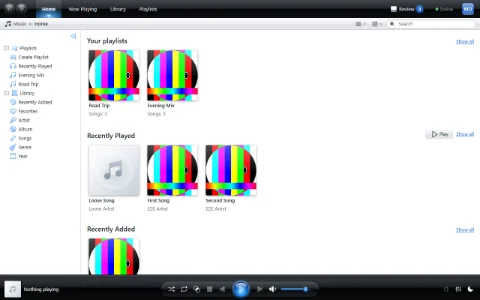
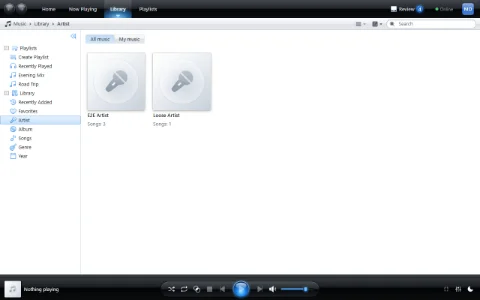
WMP-32: M5 take the theme baselines and show the artist overview in the previews
The baselines of the screenshot regression (8 theme variants, 10 views each, desktop and phone) are taken with npm run test:themes:update in the Playwright image pinned in the CI, against the rebuilt development container. The preview pictures of the theme picker now show the artist overview instead of the home page, so each tile shows the chrome and the cover placeholders of its theme rather than the colorful test covers; all previews are taken again. THEMING.md documents the base fixes of this issue and how indicators avoid painting without an active entry and sliding in on the first measurement, and the README describes the theme choice in the settings.

Closes #19

Claude-Session: https://claude.ai/code/session_011yGJ1FB9W4kXx3AgqJXLmc

diff --git a/tests/WaveMP.E2E/screenshots/theme.screenshots.ts b/tests/WaveMP.E2E/screenshots/theme.screenshots.ts
@@ -39,7 +39,10 @@ function list(value: string | undefined): string[] {
         .filter(Boolean)
 }
 
-/** The preview picture of the theme picker: the home page, scaled down, as WebP. */
+/**
+ * The preview picture of the theme picker: the artist overview, scaled down, as WebP. It shows the
+ * chrome of the theme and its own cover placeholders instead of the colorful test covers.
+ */
 async function writePreview(page: Page, target: ThemeTarget, png: Buffer): Promise<void> {
     const webp = await page.evaluate(async (data) => {
         const image = new Image()
@@ -78,7 +81,7 @@ for (const target of targets) {
                 if (tasks.has('screenshots')) {
                     writeFileSync(path.join(directory, `${view.name}.png`), png)
                 }
-                if (tasks.has('preview') && view.name === 'home') {
+                if (tasks.has('preview') && view.name === 'artists') {
                     await writePreview(page, target, png)
                 }
                 if (tasks.has('contrast')) {

diff --git a/README.md b/README.md
@@ -429,27 +429,28 @@ A number at the start of a file name is only a track number inside an album fold
 2. **Create profiles.** As admin, open the profile menu (your initials at the top right), choose **Administration** and then **Profiles** to add, edit or delete profiles: name, initials (created from the name if left empty), color and role (admin or user). The built-in admin profile can be renamed, but it cannot be deleted and always stays an admin. Once there are other profiles, it is shown less prominently in the selection.
 3. **Switch profiles** with **Switch profile** in the profile menu.
 4. **Choose your language** under **Settings** in the profile menu. It is stored with the profile and applies on all devices; the list offers every language WaveMP has a translation for, each in its own language. Before a profile is selected, WaveMP uses the language of the browser if it has a translation for it (also for regional variants: German for `de-AT`), otherwise English.
-5. **Choose a picture.** Under **Settings > Profile picture**, **Change picture** gives your profile one of the built-in pictures or an own JPEG, PNG or WebP picture of up to 10 MB: drag it and zoom it until the square shows what you want, then save. **Remove picture** shows your initials again. The picture appears in the profile selection, in the profile menu and on the admin page; admins change and remove the pictures of all profiles under **Administration > Profiles**.
-6. **Protect your profile with a PIN.** Under **Settings > PIN** every profile can set, change or remove a PIN of 4 to 8 digits. A protected profile shows a lock in the selection and asks for its PIN on a digit pad (the keyboard works as well) before it opens. Setting or changing the PIN signs the profile out on all other devices. Admins remove forgotten PINs under **Administration > Profiles**.
-7. **Scan your library.** As admin, open **Administration > Library**: **Scan now** starts a scan of your media folder, shows its progress and then its result (files found, added, updated and removed, tracks, albums and artists, and files with problems). Below are the history of scans and the settings: how often the library is scanned, whether the media folder is watched for changes, the file extensions of audio, video and pictures, the names of album covers and which cover is shown first (album cover or song cover) for all albums and songs without a rule of their own. **Administration > Files** lists all songs with the number of their audio files, videos and covers, filtered for example to songs with several audio files, with a selected file or with a selected file that is gone, and searched by title, folder or file name. A song opens its files with format and quality per category; click a file to use it for playback and display instead of the one of the highest quality, **Automatic** to go back to the quality rule, or **Reset selection** for all categories at once. The selection survives scans; if a selected file is deleted, the song uses the automatic choice and the page shows the missing file until it is back or another file is chosen. A chosen cover of the song is shown before the album cover. **Administration > Jobs** lists all background jobs with their last and next run and runs them on demand; **Prepare covers** runs after every scan. **Administration > Cache** shows how much space the cache of scaled covers and transcoded media uses, clears it and sets its maximum size. **Administration > Transcoding** shows whether transcoding works, the state of the hardware acceleration and the running transcodes, which you can stop there, and sets the hardware acceleration, how many transcodes run at the same time, the largest height of transcoded videos and the bitrate of transcoded sound. **Administration > Backups** shows the daily exports of the database, backs up on demand and sets when and how many exports are kept (see [Backup & Restore](#backup--restore)).
-8. **Browse your library.** **Library** in the sidebar (the drawer behind the menu button on smartphones) has the sections **Recently Added** (newest first), **Favorites**, **Artist**, **Album**, **Songs** (grouped by album with cover), **Genre** and **Year**. On the desktop, the button at the top of the sidebar collapses it to its icons, which show their names when you point at them, and expands it again; the sidebar stays as you left it, stored with your profile and on all devices. On smartphones the drawer always shows the whole sidebar. Albums, artists, genres and years open their own page; the details of a song (cover, artist, album, length, audio and video) open from its context menu: right click, the context menu key or a long press on touch screens. Admins also see all files of a song there, with their technical details, and **Choose files** opens the selection of its files. Under **Cover** on the page of an album or a song, admins choose which cover comes first: **Album cover**, **Song cover** or the inherited rule (a song follows its album, an album the library settings). The preview shows the cover of the chosen rule before it is saved; after saving, every page shows the new cover. If the preferred cover is missing, the other one is shown, and a cover chosen in the files of a song always comes first. **Back** at the top of the page of a song, album, artist, genre, year or playlist returns to where you came from, at the same place and with the list as you left it, just like the back button of the browser; a page you opened directly from a link leads back to its overview instead.
-9. **Edit metadata.** As admin, choose **Edit metadata** on the page of a song or in its context menu. Change title, artist, album, album artist, year, track and disc number or genre and save: WaveMP writes the changes into the audio file the song plays, keeps the previous tags in the database and reads the song again, so the library shows the new values at once. An empty field removes the value from the tags; WaveMP then takes it from the folder and file name again. Songs with a video only and files that cannot be written show the editor greyed out with a hint.
-10. **Review new songs.** Every song starts unreviewed: songs found by a scan and, after the update to this version, all songs of the library. Admins see a review button with the number of unreviewed songs at the top of every page (also under **Administration > Review**). It opens the review inbox: all unreviewed songs with cover, title, artist, album and a hint which tags their file lacks (title, artist, album, year, track number or genre), sorted by date added, artist, album or title, filtered to songs with missing or complete tags and searched by title, artist, album or file name. Select songs and choose **Mark selected as reviewed** to review them at once. A song opens in the metadata editor: **Save and mark as reviewed** writes your changes (nothing if you changed nothing) and marks the song, **Mark as reviewed** marks it without changes and **Skip** leaves it in the inbox. After each of them the next unreviewed song of the list opens, and **Previous song** and **Next song** move through the list without changing anything. **Back** returns to the list at the same place. WaveMP keeps who reviewed a song and when; scans and later edits do not put it back into the inbox.
-11. **Search.** Type into the search field at the top: WaveMP searches artists, albums and songs while you type, and small typos are fine. **Show all** opens the full list filtered by your text. On the desktop, the sort button next to the search sorts the current list; sort order and search text are part of the address, so you can bookmark or share them.
-12. **Play.** Double click a song (tap on touch screens) or press Enter to play the list from there; **Play** and **Shuffle** on the page of an album play the whole album. The context menu of a song also offers **Play next** and **Add to queue**. The transport bar plays and pauses, skips, seeks, sets the volume (remembered on the device), shuffles and repeats the queue or one song. **Now Playing** shows the current song and the queue, where you play, move and remove songs. Songs follow each other without a gap, and the media keys, the lock screen and the notification of your device control the player. A song counts as played in your history once it has played for half its length, at most four minutes. Songs your browser cannot play are transcoded on the fly by the server; only while transcoding is unavailable (see **Administration > Transcoding**) are they skipped with a notice.
-13. **Level the volume.** Under **Settings**, **Volume leveling (ReplayGain)** evens out songs that were mastered louder or quieter, by song or by album, if their files carry ReplayGain tags. It is off by default and stored with the profile.
-14. **Build playlists.** **Playlists** shows the playlists of your profile and **Recently Played**, the songs you played last, newest first. **Create playlist** (also in the sidebar) asks for a name; **Add to playlist** in the context menu of a song adds it to an existing or a new playlist, as often as you like. On the page of a playlist, **Play** and **Shuffle** play it, the handle in front of each song moves it by drag and drop (with mouse, pen or finger), and the context menu of a song moves it up or down or removes it. **Rename**, **Delete** and **Change cover** (a JPEG, PNG or WebP picture of up to 10 MB, cropped to a square) change the playlist itself; without its own picture, a playlist shows the covers of up to four of its songs, one after the other. The sidebar lists your playlists below **Playlists**.
-15. **Mark favorites and rate songs.** The heart marks a song, an album or an artist as favorite of your profile: at the end of each song row, on the page of a song, album or artist, in the context menu of a song (**Add to favorites**) and next to the current song in the transport bar. The stars rate a song with one to five stars; a click on the star of the current rating removes it. On the desktop, the empty hearts and stars of a row appear when you point at it; on smartphones the song lists show the heart only, the stars are on the page of the song and in the expanded player. **Library > Favorites** lists your favorite songs, albums and artists, newest first. **All music** and **My music** above the sections of the library switch between the whole library and your own music: rated and favorite songs, the songs of your favorite albums and artists and of your playlists.
-16. **Start at home.** **Home** shows rows of your playlists, the songs you played recently, the albums added recently, your favorites and your top rated songs. **Show all** opens the full list, **Play** plays the recently played or top rated songs. As long as there is nothing to show, it greets you with a welcome text.
-17. **Watch music videos.** **Now Playing** shows the song in one of four views, which its buttons switch with a soft crossfade: **Cover**, **Video**, **Visualization** and **Lyrics** (see the next steps). The sound always comes from the song: the video plays muted and follows its position, so switching the view or leaving **Now Playing** never interrupts the music. **Video** can be chosen for songs with a video only; songs without one show their cover meanwhile. The view you choose is stored with your profile and applies on all devices. A double click on the video or its full screen button shows it in full screen. Your browser plays the video file as it is if it can, otherwise the server transcodes it. If the music in a video starts earlier or later than in the song, admins set the offset in milliseconds under **Video sync** on the page of the song; a playing video takes it over at once.
-18. **Watch the music.** **Visualization** on **Now Playing** draws the music as it is heard. Its controls (on hover, on touch screens always) choose between three visualizations: **Milkdrop** with the classic Milkdrop presets (the preset pack of butterchurn), **A-Force**, WaveMP's own visualization with flowing waveforms, particles, color gradients and camera movements that react to bass, mids, highs and beats, whose presets are its style variants (Aurora, Nebula, Ember, Lagoon, Prism and Eclipse) that blend smoothly into each other, and **BlackCap**, WaveMP's own visualization with organic, floating 3D shapes and light effects that react calmly to the music: the shapes breathe with its tempo, swell gently on a beat, their curved surfaces sway with the spectrum and mirror soft lights; its presets are its scenes (Lumen, Tide, Orchid, Mercury, Halo and Dusk), which slowly morph into each other over a few seconds. The visualization starts with the first song you play. The controls also choose a preset from the list or step to the previous or next one, switch the automatic change on and off and show the visualization in full screen; a double click switches to full screen as well. While the automatic change is on, a random preset follows every 30 seconds; **Settings > Change visualization presets** sets the interval from 10 seconds to 5 minutes or turns it off. **Settings > Visualization quality** sets how much detail the visualization draws: **Auto** (the default) starts with the most detail and lowers it while the device cannot draw about 60 frames per second, then raises it again after a while of smooth drawing; **Low**, **Medium** and **High** keep a level (A-Force draws fewer particles and waveforms at a lower resolution, BlackCap fewer and less finely curved shapes and fewer lights at a lower resolution, Milkdrop uses smaller textures). The visualization, the preset you choose, the automatic change, its interval and the quality are stored with your profile. The visualization only draws while it is shown: on another view, another page or in a background tab it pauses. It needs WebGL 2 and Web Audio, which current browsers offer; on iPhones the browser offers no full screen for it.
-19. **Sing along.** **Lyrics** on **Now Playing** shows the lyrics of the song (see [Lyrics](#organizing-your-media)); it can be chosen for songs with lyrics only, songs without them show their cover meanwhile. Synchronized lyrics follow the music: the current line is large and bright in the middle, the others are dimmed, and with a time per word the current word fills while it is sung. A click or tap on a line jumps there. If you scroll yourself, the lyrics follow the music again after a few seconds. Lyrics without times scroll calmly over the song. With reduced motion switched on in your system, the lyrics jump instead of scrolling and lyrics without times stay where you leave them. As admin you see the lyrics of a song on its page under **Lyrics**: where they come from and whether they are synchronized; **Download lyrics** looks them up on LRCLIB at once, while the download is switched on and the song has no `.lrc` file.
-20. **Shape the sound.** The equalizer button in the transport bar (in the expanded player on smartphones) opens the **Equalizer** below **Now Playing**: switch it on, choose a preset (Flat, Rock, Pop, Jazz, Classical, Dance, Bass, Treble, Vocal) or move the ten bands from 31 Hz to 16 kHz and the preamp, by mouse, finger or arrow keys. Moving a band turns the preset into your own curve (**Custom**), which is kept when you try another preset; **Reset** goes back to Flat. The equalizer applies at once, is stored with your profile and applies on all devices; **Settings** switches it on and off as well.
-21. **Crossfade.** Under **Settings**, **Crossfade** lets one song fade into the next for up to twelve seconds when the queue moves on by itself. Off plays the songs without gaps. The crossfade button in the transport bar, between repeat and stop (in the expanded player on smartphones), switches the crossfade on and off with one click and shows whether it is on; it keeps the length set under **Settings** (five seconds until you choose one). Like the setting, the switch is stored with your profile and applies on all devices. **Do not crossfade songs of the same album** (on by default) keeps live and concept albums gapless. Equalizer and crossfade need Web Audio, which current browsers offer; without it, WaveMP plays without them.
-22. **Sleep timer.** The moon button in the transport bar stops the music after 15 to 120 minutes, at the end of the current song or at the end of the queue; the button shows the remaining time, and **Off** cancels it. Shortly before the stop the music fades out (ten seconds by default, set under **Settings > Sleep timer fade-out**), then the player pauses. The timer runs on the device that plays and is not stored.
-23. **Cast.** The cast button in the transport bar (in the expanded player on smartphones) opens the device selection of your browser: Chrome and Edge show your Chromecast devices and TVs with Chromecast built in, Safari on Mac, iPhone and iPad shows its AirPlay menu. Choose a device, and the current song goes on there at the same position; the transport bar and **Now Playing** show **Playing on** with the name of the device (AirPlay does not tell the name). The device shows title, artist, album and cover; with the **Video** view chosen, it plays the music video of the song. The queue stays in WaveMP, and play, pause, seek, skip and the volume slider control the device. Songs the device cannot play are transcoded by the server. While casting, the device plays the music as it is: the equalizer, crossfade, volume leveling (ReplayGain) and the visualization are greyed out. Open the device selection again to stop casting; the song then waits paused in the browser at the same position. Chromecast needs WaveMP to be opened over HTTPS (see [Quick Start](#quick-start)); without it the button is greyed out and says so. Other browsers, such as Firefox, show no cast button. For Chromecast, the browser loads the Cast SDK from Google (`www.gstatic.com`) when WaveMP starts; the casting device itself must reach your WaveMP server under the same address as your browser.
-24. **Scrobble.** Under **Settings > Scrobbling**, connect your profile to Last.fm or ListenBrainz, and the songs you listen to are sent there; the page shows for each service whether it is connected, as which account, when the last song was sent and how many songs are still waiting. See [Scrobbling](#scrobbling).
-25. **Use Subsonic apps.** Under **Settings > Subsonic apps**, allow Subsonic apps and create an app password; then sign in in the app with the address of the server, the name of your profile and that password. See [Subsonic apps](#subsonic-apps).
+5. **Choose a theme.** Under **Settings > Appearance**, pick one of the six themes from its preview tile: *Midnight*, *Meadow*, *Daylight*, *Accent*, *Pinstripe* or *Clear Glass*. WaveMP switches at once, without a reload, and keeps the choice with the profile on all devices. **Light or dark** chooses the variant of themes that have both (*Accent* and *Clear Glass*): **System** follows the device, **Light** and **Dark** keep one of them.
+6. **Choose a picture.** Under **Settings > Profile picture**, **Change picture** gives your profile one of the built-in pictures or an own JPEG, PNG or WebP picture of up to 10 MB: drag it and zoom it until the square shows what you want, then save. **Remove picture** shows your initials again. The picture appears in the profile selection, in the profile menu and on the admin page; admins change and remove the pictures of all profiles under **Administration > Profiles**.
+7. **Protect your profile with a PIN.** Under **Settings > PIN** every profile can set, change or remove a PIN of 4 to 8 digits. A protected profile shows a lock in the selection and asks for its PIN on a digit pad (the keyboard works as well) before it opens. Setting or changing the PIN signs the profile out on all other devices. Admins remove forgotten PINs under **Administration > Profiles**.
+8. **Scan your library.** As admin, open **Administration > Library**: **Scan now** starts a scan of your media folder, shows its progress and then its result (files found, added, updated and removed, tracks, albums and artists, and files with problems). Below are the history of scans and the settings: how often the library is scanned, whether the media folder is watched for changes, the file extensions of audio, video and pictures, the names of album covers and which cover is shown first (album cover or song cover) for all albums and songs without a rule of their own. **Administration > Files** lists all songs with the number of their audio files, videos and covers, filtered for example to songs with several audio files, with a selected file or with a selected file that is gone, and searched by title, folder or file name. A song opens its files with format and quality per category; click a file to use it for playback and display instead of the one of the highest quality, **Automatic** to go back to the quality rule, or **Reset selection** for all categories at once. The selection survives scans; if a selected file is deleted, the song uses the automatic choice and the page shows the missing file until it is back or another file is chosen. A chosen cover of the song is shown before the album cover. **Administration > Jobs** lists all background jobs with their last and next run and runs them on demand; **Prepare covers** runs after every scan. **Administration > Cache** shows how much space the cache of scaled covers and transcoded media uses, clears it and sets its maximum size. **Administration > Transcoding** shows whether transcoding works, the state of the hardware acceleration and the running transcodes, which you can stop there, and sets the hardware acceleration, how many transcodes run at the same time, the largest height of transcoded videos and the bitrate of transcoded sound. **Administration > Backups** shows the daily exports of the database, backs up on demand and sets when and how many exports are kept (see [Backup & Restore](#backup--restore)).
+9. **Browse your library.** **Library** in the sidebar (the drawer behind the menu button on smartphones) has the sections **Recently Added** (newest first), **Favorites**, **Artist**, **Album**, **Songs** (grouped by album with cover), **Genre** and **Year**. On the desktop, the button at the top of the sidebar collapses it to its icons, which show their names when you point at them, and expands it again; the sidebar stays as you left it, stored with your profile and on all devices. On smartphones the drawer always shows the whole sidebar. Albums, artists, genres and years open their own page; the details of a song (cover, artist, album, length, audio and video) open from its context menu: right click, the context menu key or a long press on touch screens. Admins also see all files of a song there, with their technical details, and **Choose files** opens the selection of its files. Under **Cover** on the page of an album or a song, admins choose which cover comes first: **Album cover**, **Song cover** or the inherited rule (a song follows its album, an album the library settings). The preview shows the cover of the chosen rule before it is saved; after saving, every page shows the new cover. If the preferred cover is missing, the other one is shown, and a cover chosen in the files of a song always comes first. **Back** at the top of the page of a song, album, artist, genre, year or playlist returns to where you came from, at the same place and with the list as you left it, just like the back button of the browser; a page you opened directly from a link leads back to its overview instead.
+10. **Edit metadata.** As admin, choose **Edit metadata** on the page of a song or in its context menu. Change title, artist, album, album artist, year, track and disc number or genre and save: WaveMP writes the changes into the audio file the song plays, keeps the previous tags in the database and reads the song again, so the library shows the new values at once. An empty field removes the value from the tags; WaveMP then takes it from the folder and file name again. Songs with a video only and files that cannot be written show the editor greyed out with a hint.
+11. **Review new songs.** Every song starts unreviewed: songs found by a scan and, after the update to this version, all songs of the library. Admins see a review button with the number of unreviewed songs at the top of every page (also under **Administration > Review**). It opens the review inbox: all unreviewed songs with cover, title, artist, album and a hint which tags their file lacks (title, artist, album, year, track number or genre), sorted by date added, artist, album or title, filtered to songs with missing or complete tags and searched by title, artist, album or file name. Select songs and choose **Mark selected as reviewed** to review them at once. A song opens in the metadata editor: **Save and mark as reviewed** writes your changes (nothing if you changed nothing) and marks the song, **Mark as reviewed** marks it without changes and **Skip** leaves it in the inbox. After each of them the next unreviewed song of the list opens, and **Previous song** and **Next song** move through the list without changing anything. **Back** returns to the list at the same place. WaveMP keeps who reviewed a song and when; scans and later edits do not put it back into the inbox.
+12. **Search.** Type into the search field at the top: WaveMP searches artists, albums and songs while you type, and small typos are fine. **Show all** opens the full list filtered by your text. On the desktop, the sort button next to the search sorts the current list; sort order and search text are part of the address, so you can bookmark or share them.
+13. **Play.** Double click a song (tap on touch screens) or press Enter to play the list from there; **Play** and **Shuffle** on the page of an album play the whole album. The context menu of a song also offers **Play next** and **Add to queue**. The transport bar plays and pauses, skips, seeks, sets the volume (remembered on the device), shuffles and repeats the queue or one song. **Now Playing** shows the current song and the queue, where you play, move and remove songs. Songs follow each other without a gap, and the media keys, the lock screen and the notification of your device control the player. A song counts as played in your history once it has played for half its length, at most four minutes. Songs your browser cannot play are transcoded on the fly by the server; only while transcoding is unavailable (see **Administration > Transcoding**) are they skipped with a notice.
+14. **Level the volume.** Under **Settings**, **Volume leveling (ReplayGain)** evens out songs that were mastered louder or quieter, by song or by album, if their files carry ReplayGain tags. It is off by default and stored with the profile.
+15. **Build playlists.** **Playlists** shows the playlists of your profile and **Recently Played**, the songs you played last, newest first. **Create playlist** (also in the sidebar) asks for a name; **Add to playlist** in the context menu of a song adds it to an existing or a new playlist, as often as you like. On the page of a playlist, **Play** and **Shuffle** play it, the handle in front of each song moves it by drag and drop (with mouse, pen or finger), and the context menu of a song moves it up or down or removes it. **Rename**, **Delete** and **Change cover** (a JPEG, PNG or WebP picture of up to 10 MB, cropped to a square) change the playlist itself; without its own picture, a playlist shows the covers of up to four of its songs, one after the other. The sidebar lists your playlists below **Playlists**.
+16. **Mark favorites and rate songs.** The heart marks a song, an album or an artist as favorite of your profile: at the end of each song row, on the page of a song, album or artist, in the context menu of a song (**Add to favorites**) and next to the current song in the transport bar. The stars rate a song with one to five stars; a click on the star of the current rating removes it. On the desktop, the empty hearts and stars of a row appear when you point at it; on smartphones the song lists show the heart only, the stars are on the page of the song and in the expanded player. **Library > Favorites** lists your favorite songs, albums and artists, newest first. **All music** and **My music** above the sections of the library switch between the whole library and your own music: rated and favorite songs, the songs of your favorite albums and artists and of your playlists.
+17. **Start at home.** **Home** shows rows of your playlists, the songs you played recently, the albums added recently, your favorites and your top rated songs. **Show all** opens the full list, **Play** plays the recently played or top rated songs. As long as there is nothing to show, it greets you with a welcome text.
+18. **Watch music videos.** **Now Playing** shows the song in one of four views, which its buttons switch with a soft crossfade: **Cover**, **Video**, **Visualization** and **Lyrics** (see the next steps). The sound always comes from the song: the video plays muted and follows its position, so switching the view or leaving **Now Playing** never interrupts the music. **Video** can be chosen for songs with a video only; songs without one show their cover meanwhile. The view you choose is stored with your profile and applies on all devices. A double click on the video or its full screen button shows it in full screen. Your browser plays the video file as it is if it can, otherwise the server transcodes it. If the music in a video starts earlier or later than in the song, admins set the offset in milliseconds under **Video sync** on the page of the song; a playing video takes it over at once.
+19. **Watch the music.** **Visualization** on **Now Playing** draws the music as it is heard. Its controls (on hover, on touch screens always) choose between three visualizations: **Milkdrop** with the classic Milkdrop presets (the preset pack of butterchurn), **A-Force**, WaveMP's own visualization with flowing waveforms, particles, color gradients and camera movements that react to bass, mids, highs and beats, whose presets are its style variants (Aurora, Nebula, Ember, Lagoon, Prism and Eclipse) that blend smoothly into each other, and **BlackCap**, WaveMP's own visualization with organic, floating 3D shapes and light effects that react calmly to the music: the shapes breathe with its tempo, swell gently on a beat, their curved surfaces sway with the spectrum and mirror soft lights; its presets are its scenes (Lumen, Tide, Orchid, Mercury, Halo and Dusk), which slowly morph into each other over a few seconds. The visualization starts with the first song you play. The controls also choose a preset from the list or step to the previous or next one, switch the automatic change on and off and show the visualization in full screen; a double click switches to full screen as well. While the automatic change is on, a random preset follows every 30 seconds; **Settings > Change visualization presets** sets the interval from 10 seconds to 5 minutes or turns it off. **Settings > Visualization quality** sets how much detail the visualization draws: **Auto** (the default) starts with the most detail and lowers it while the device cannot draw about 60 frames per second, then raises it again after a while of smooth drawing; **Low**, **Medium** and **High** keep a level (A-Force draws fewer particles and waveforms at a lower resolution, BlackCap fewer and less finely curved shapes and fewer lights at a lower resolution, Milkdrop uses smaller textures). The visualization, the preset you choose, the automatic change, its interval and the quality are stored with your profile. The visualization only draws while it is shown: on another view, another page or in a background tab it pauses. It needs WebGL 2 and Web Audio, which current browsers offer; on iPhones the browser offers no full screen for it.
+20. **Sing along.** **Lyrics** on **Now Playing** shows the lyrics of the song (see [Lyrics](#organizing-your-media)); it can be chosen for songs with lyrics only, songs without them show their cover meanwhile. Synchronized lyrics follow the music: the current line is large and bright in the middle, the others are dimmed, and with a time per word the current word fills while it is sung. A click or tap on a line jumps there. If you scroll yourself, the lyrics follow the music again after a few seconds. Lyrics without times scroll calmly over the song. With reduced motion switched on in your system, the lyrics jump instead of scrolling and lyrics without times stay where you leave them. As admin you see the lyrics of a song on its page under **Lyrics**: where they come from and whether they are synchronized; **Download lyrics** looks them up on LRCLIB at once, while the download is switched on and the song has no `.lrc` file.
+21. **Shape the sound.** The equalizer button in the transport bar (in the expanded player on smartphones) opens the **Equalizer** below **Now Playing**: switch it on, choose a preset (Flat, Rock, Pop, Jazz, Classical, Dance, Bass, Treble, Vocal) or move the ten bands from 31 Hz to 16 kHz and the preamp, by mouse, finger or arrow keys. Moving a band turns the preset into your own curve (**Custom**), which is kept when you try another preset; **Reset** goes back to Flat. The equalizer applies at once, is stored with your profile and applies on all devices; **Settings** switches it on and off as well.
+22. **Crossfade.** Under **Settings**, **Crossfade** lets one song fade into the next for up to twelve seconds when the queue moves on by itself. Off plays the songs without gaps. The crossfade button in the transport bar, between repeat and stop (in the expanded player on smartphones), switches the crossfade on and off with one click and shows whether it is on; it keeps the length set under **Settings** (five seconds until you choose one). Like the setting, the switch is stored with your profile and applies on all devices. **Do not crossfade songs of the same album** (on by default) keeps live and concept albums gapless. Equalizer and crossfade need Web Audio, which current browsers offer; without it, WaveMP plays without them.
+23. **Sleep timer.** The moon button in the transport bar stops the music after 15 to 120 minutes, at the end of the current song or at the end of the queue; the button shows the remaining time, and **Off** cancels it. Shortly before the stop the music fades out (ten seconds by default, set under **Settings > Sleep timer fade-out**), then the player pauses. The timer runs on the device that plays and is not stored.
+24. **Cast.** The cast button in the transport bar (in the expanded player on smartphones) opens the device selection of your browser: Chrome and Edge show your Chromecast devices and TVs with Chromecast built in, Safari on Mac, iPhone and iPad shows its AirPlay menu. Choose a device, and the current song goes on there at the same position; the transport bar and **Now Playing** show **Playing on** with the name of the device (AirPlay does not tell the name). The device shows title, artist, album and cover; with the **Video** view chosen, it plays the music video of the song. The queue stays in WaveMP, and play, pause, seek, skip and the volume slider control the device. Songs the device cannot play are transcoded by the server. While casting, the device plays the music as it is: the equalizer, crossfade, volume leveling (ReplayGain) and the visualization are greyed out. Open the device selection again to stop casting; the song then waits paused in the browser at the same position. Chromecast needs WaveMP to be opened over HTTPS (see [Quick Start](#quick-start)); without it the button is greyed out and says so. Other browsers, such as Firefox, show no cast button. For Chromecast, the browser loads the Cast SDK from Google (`www.gstatic.com`) when WaveMP starts; the casting device itself must reach your WaveMP server under the same address as your browser.
+25. **Scrobble.** Under **Settings > Scrobbling**, connect your profile to Last.fm or ListenBrainz, and the songs you listen to are sent there; the page shows for each service whether it is connected, as which account, when the last song was sent and how many songs are still waiting. See [Scrobbling](#scrobbling).
+26. **Use Subsonic apps.** Under **Settings > Subsonic apps**, allow Subsonic apps and create an app password; then sign in in the app with the address of the server, the name of your profile and that password. See [Subsonic apps](#subsonic-apps).
 
 ### Profiles and PINs
 

diff --git a/THEMING.md b/THEMING.md
@@ -101,7 +101,7 @@ The CSS of the theme selects the dark variant with the attribute, never with `@m
 
 The media features a theme may use are `width` (the layout breakpoint), `prefers-reduced-motion`, `prefers-reduced-transparency: reduce`, `prefers-contrast: more`, `forced-colors: active`, `hover: hover` and `pointer: coarse`; a test checks this for the shipped themes.
 
-Each variant has a preview picture for the theme picker of the settings, `/assets/web/themes/<id>/preview-<variant>.webp` (480 pixels wide, the home page on the desktop), made with `npm run theme:screenshots -- --theme <id> --preview` (see [Checking a theme](#checking-a-theme)).
+Each variant has a preview picture for the theme picker of the settings, `/assets/web/themes/<id>/preview-<variant>.webp` (480 pixels wide, the artist overview on the desktop, which shows the chrome of the theme and its cover placeholders), made with `npm run theme:screenshots -- --theme <id> --preview` (see [Checking a theme](#checking-a-theme)).
 
 ### Cover color
 
@@ -519,6 +519,7 @@ Every group in which one entry is the active one gives the theme the same means 
 - The state is an attribute of the entry: `aria-current="page"` and `data-state="active"`, or `aria-checked="true"`.
 - The group has an `indicator` as its first child: empty, `aria-hidden`, hidden by the base (`display: none`) and laid over the active entry (`position: absolute` in the group, `left: var(--wmp-indicator-x)`, `top: var(--wmp-indicator-y)`, `inline-size: var(--wmp-indicator-width)`, `block-size: var(--wmp-indicator-height)`; in a `segmented-control` the whole height). A theme shows it and decides its shape, for example a line below the entry or a sliding pane of glass behind it. The group is a containing block (`position: relative`).
 - The group carries the runtime variables `--wmp-item-count`, `--wmp-active-index`, `--wmp-indicator-x`, `--wmp-indicator-y`, `--wmp-indicator-width` and `--wmp-indicator-height` (see [Runtime variables](#runtime-variables)). The app measures the box again when the active entry changes and when the group or its entries change their size. Without an active entry (`--wmp-active-index: -1`) the box has no size.
+- Two things follow from the measuring, and all shipped themes handle them in CSS only. An indicator without an active entry is a box without size, so it should paint nothing outside its box: no outer `box-shadow`, `outline` or `border` (a glow can be a `filter: drop-shadow()`, which follows painted content and draws nothing for an empty box). And the variables are set for the first time after the page is drawn and again after it is rebuilt, so an indicator with an unconditional `transition` slides in from the corner of the group. Let it move only while the person works with the group (`:hover`, `:focus-within`, `:active`), as in the example below; a click or an arrow key still animates it, and the screenshots of the regression stay stable.
 - `rating` and `playlist-cover` carry `--wmp-item-count` and `--wmp-active-index` only.
 
 Example of a line that slides below the active tab:
@@ -531,6 +532,9 @@ Example of a line that slides below the active tab:
     block-size: 3px;
     border-radius: 3px;
     background: linear-gradient(90deg, #8fd2ff, #ffffff);
+}
+
+[data-part='tabs']:is(:hover, :focus-within, :active) > [data-part='indicator'] {
     transition:
         left 0.25s ease,
         inline-size 0.25s ease;
@@ -1074,7 +1078,7 @@ The themes shipped with WaveMP name the version they are written for in the comm
 ### Changelog
 
 - **Version 5:** visualizations. Changed: the `visualization` is no longer a placeholder: the state `placeholder` is gone, its `icon` and `label` moved into the new `visualization-message`, and the base lays out the `visualization` as a positioned box (no longer a grid) with the background `--wmp-stage-view-background`; themes that styled `visualization > icon` or `visualization > label` have to style `visualization-message > icon` and `visualization-message > label`; `btn-fullscreen` also lies in `visualization-controls`, so theme rules for `btn-fullscreen` that should only apply to the video need `video-stage > btn-fullscreen`. Added: the states `idle`, `loading`, `waiting`, `running`, `paused`, `unsupported`, `failed` and `fullscreen` of `visualization` and its attribute `data-module`; the parts `visualization-canvas`, `visualization-message`, `visualization-controls`, `btn-preset-previous`, `btn-preset-next` and `btn-auto-change` (states `on` and `off`, `aria-pressed`); the values `visualization-preset` and `visualization-auto-change` of `data-field`; the icon slots `preset-previous`, `preset-next` and `auto-change`.
-    - Additions without a version change: more themes and their variants. The themes Meadow (`meadow`), Daylight (`daylight`), Accent (`accent`, light and dark), Pinstripe (`pinstripe`) and Clear Glass (`clear-glass`, light and dark); the attribute `data-theme-variant` on the root element (see [Variants](#variants)); the runtime variables `--wmp-cover-color` and `--wmp-cover-color-contrast` on the root element; the theme picker of the settings (`section` `appearance` with the `field`s `theme` and `theme-appearance`, the parts `theme-picker` with an `indicator` and the runtime variables of an active element, `theme-option` with `data-item` and `data-variants`, `theme-preview` with `data-kind` and the state `missing`, `theme-preview-image` and `theme-variants`); the time display `transport-time` (state `empty`) with `time-elapsed` and `time-duration` in `transport`, hidden by the base. The default of `--wmp-profile-secondary-opacity` is `0.7` instead of `0.55`, so the label of the built-in admin keeps 4.5:1.
+    - Additions without a version change: more themes and their variants. The themes Meadow (`meadow`), Daylight (`daylight`), Accent (`accent`, light and dark), Pinstripe (`pinstripe`) and Clear Glass (`clear-glass`, light and dark); the attribute `data-theme-variant` on the root element (see [Variants](#variants)); the runtime variables `--wmp-cover-color` and `--wmp-cover-color-contrast` on the root element; the theme picker of the settings (`section` `appearance` with the `field`s `theme` and `theme-appearance`, the parts `theme-picker` with an `indicator` and the runtime variables of an active element, `theme-option` with `data-item` and `data-variants`, `theme-preview` with `data-kind` and the state `missing`, `theme-preview-image` and `theme-variants`); the time display `transport-time` (state `empty`) with `time-elapsed` and `time-duration` in `transport`, hidden by the base. The default of `--wmp-profile-secondary-opacity` is `0.7` instead of `0.55`, so the label of the built-in admin keeps 4.5:1. Fixes of the base: the knob of a vertical `slider` (the bands of the `equalizer`) sits at the level of its fill, measured against `--wmp-equalizer-slider-height` (before, it stayed near the bottom); `now-playing-artist`, `queue-item-artist`, `queue-item-duration` and `equalizer-scale` are no longer dimmed with `opacity`, the last three take `--wmp-color-text-muted` instead; an `equalizer` in the state `off` fades only the `slider-fill`s and `slider-thumb`s of its bands, no longer the whole `equalizer-bands`, so scale, values and band names keep their contrast.
     - Additions without a version change: the review inbox of the administration. The entry `btn-review-inbox` of `header` (states `pending`, `empty`, `active`; a `badge` `unreviewed` with the number) without a grid area of its own, the empty cell for it in the base layouts of `header`; the page `data-view="admin-review"` with `review-filters` (the `segmented-control`s `review-filter` and `review-sort`), `review-bulk`, `review-list`, `review-item`, `review-info`, `review-title`, `review-meta` and `review-tags` and their states; the page of a song `data-view="admin-review-track"` with `review-actions`, `review-nav` and the state `finished` of `empty-state`; the tokens `unreviewed`, `reviewed` and `missing-tag` of `badge`, the entry `admin-review` of `admin-nav`, further values of `data-item` and `data-field`, and the icon slots `review-inbox`, `admin-review`, `tags-missing`, `review-done`, `review-skip`, `review-previous` and `review-next`.
     - Additions without a version change: PINs of the profiles. On the profile selection the lock symbol `profile-lock` in `profile-tile` (state `protected`) and the PIN entry `pin-entry` with `pin-entry-title`, `pin-entry-actions` and the digit pad `pin-pad` (`pin-field`, `pin-dots` with `data-count`, `pin-dot`, `pin-keys`, `pin-key` with `data-key`) and their states; the PIN page `data-view="settings-pin"` with the `data-field` values `pin`, `pin-confirmation` and `pin-status`, the `section` `pin` of the settings page, the `badge` token `pin` in `user-meta`, further values of `data-item` and the icon slots `profile-lock`, `pin-delete`, `pin-submit`, `has-pin` and `reset-pin`.
     - Additions without a version change: pictures of the profiles. `avatar-image` in `avatar` and the state `image` of `avatar`; the avatar dialog (`dialog` `avatar`) with `avatar-editor` and its states, the built-in pictures `avatar-presets`, `avatar-preset` and `avatar-preset-image`, the cropping `avatar-crop` (state `dragging`), `avatar-crop-frame`, `avatar-crop-image` and `avatar-crop-preview` with the runtime variables `--wmp-crop-scale`, `--wmp-crop-x` and `--wmp-crop-y`; the `section` `avatar` of the settings page with the `form-note` `avatar-status`, further values of `data-item` and `data-field` and the icon slot `change-avatar`.
